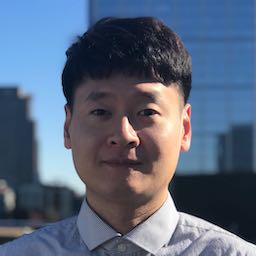
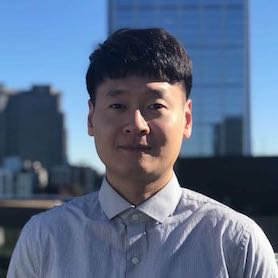
add about pic

diff --git a/index.html b/index.html
@@ -57,7 +57,7 @@
       <img class="img-fluid mb-5 d-block mx-auto" style="border-radius: 50%;" src="img/profile.png" alt="">
       <h1 class="text-uppercase mb-0">Seil Cho</h1>
       <hr class="star-light">
-      <h2 class="font-weight-light mb-0">Full-Stack Web Developer</h2>
+      <h2 class="font-weight-light mb-0">Full-Stack Software Engineer</h2>
     </div>
   </header>
 
@@ -138,17 +138,12 @@
       <hr class="star-light mb-5">
       <div class="row">
         <div class="col-lg-4 ml-auto">
-          <p class="lead">Freelancer is a free bootstrap theme created by Start Bootstrap. The download includes the complete source files including HTML, CSS, and JavaScript as well as optional LESS stylesheets for easy customization.</p>
+          <img class="mb-4" style="width: 100%;" src="./img/about.jpg"></img>
         </div>
         <div class="col-lg-4 mr-auto">
-          <p class="lead">Whether you're a student looking to showcase your work, a professional looking to attract clients, or a graphic artist looking to share your projects, this template is the perfect starting point!</p>
+          <p class="lead">I'm a full-stack software engineer prepared to learn new languages and technologies. I majored in biological science, but always had interest in programming. I am a  focused and detail-oriented person who loves solving problems. I'm currently enrolled in DigitalCrafts' full time immersive coding bootcamp to enhance my development skills.
+            </p>
         </div>
-      </div>
-      <div class="text-center mt-4">
-        <a class="btn btn-xl btn-outline-light" href="#">
-          <i class="fas fa-download mr-2"></i>
-          Download Now!
-        </a>
       </div>
     </div>
   </section>
